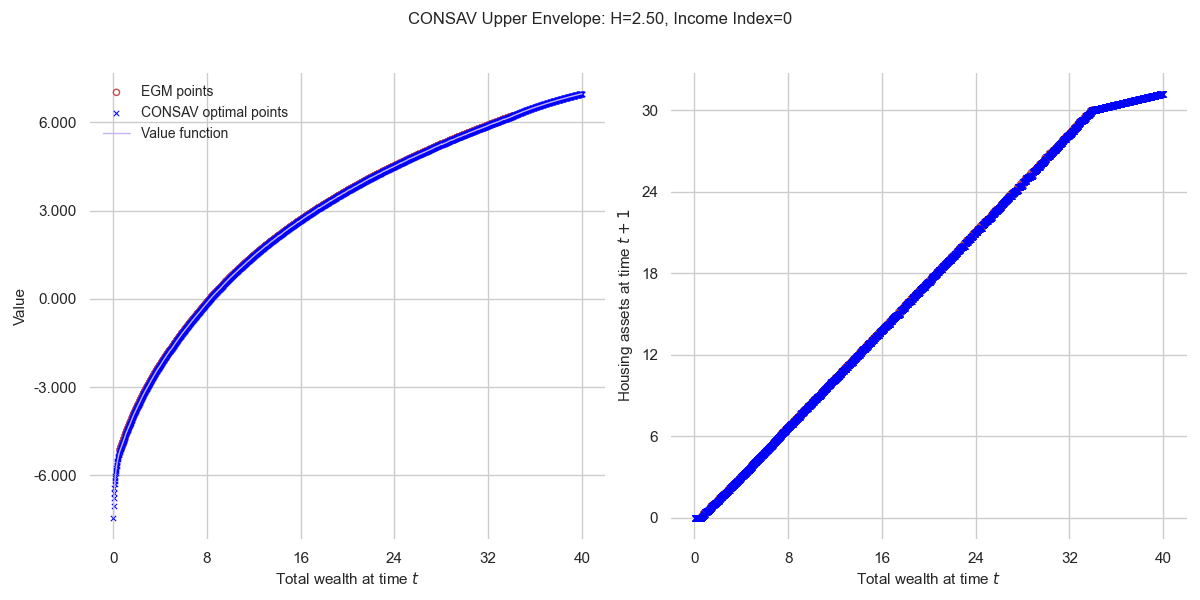
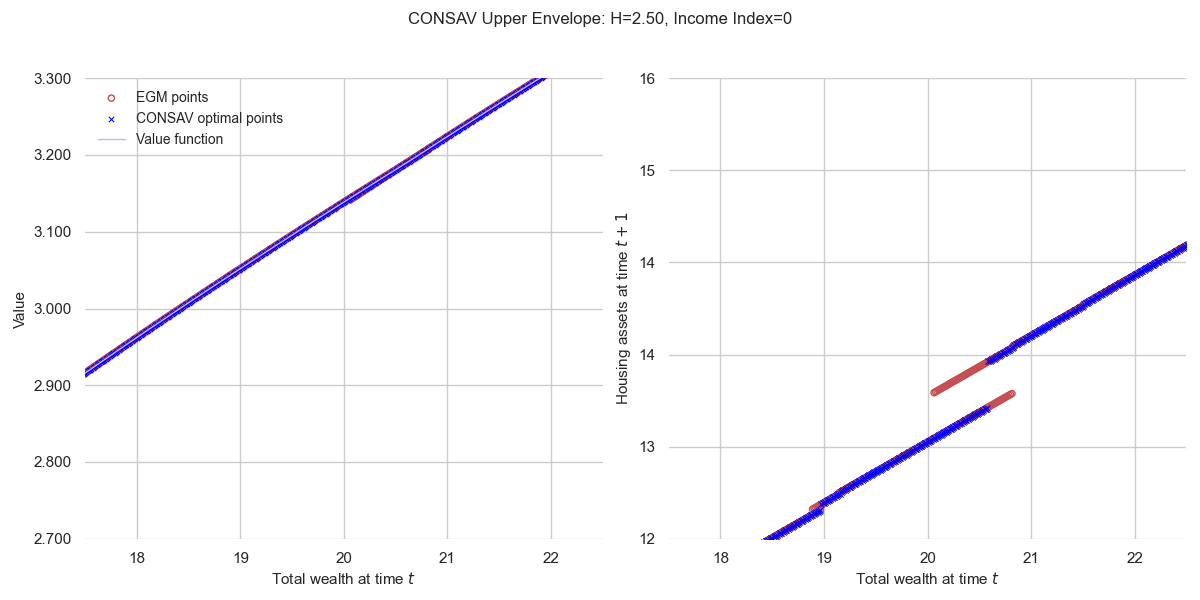
subgradient focs working hr ex

diff --git a/src/dc_smm/models/housing_renting/horses_common.py b/src/dc_smm/models/housing_renting/horses_common.py
@@ -296,103 +296,140 @@ def fast_vectorized_interpolation(values_grid, policies_grid, wealth_grid, valid
     return output, valid_count 
 
 
-def egm_preprocess(egrid, vf, c, a, beta, u_func, vf_next, Pi=None, i_z=None, i_h_prime=None, n_con=10, h_nxt=None):
+@njit
+def _egm_preprocess_core(e_old, vf_old, c_old, a_old,
+                         vf_next,              # 1-D, same length as old grids
+                         beta, u_func,         # u_func must be @njit-able
+                         m_bar,                # jump threshold
+                         n_con,                # # constraint nodes
+                         c_max, h_nxt):               # upper end of [c*, c_max]
     """
-    Preprocess endogenous grid and associated values following the approach in fella.py.
-    
-    This function:
-    1. Adds constraint points at the borrowing constraint with small consumption values
-    2. Concatenates them with the main EGM solution
-    3. Ensures uniqueness in the grid
-    
-    Parameters
-    ----------
-    egrid : ndarray
-        Endogenous grid (cash-on-hand)
-    vf : ndarray
-        Value function values
-    c : ndarray
-        Consumption policy values
-    a : ndarray
-        Asset policy values
-    beta : float
-        Discount factor
-    u_func : callable
-        Utility function that takes consumption and housing as arguments
-    vf_next : ndarray or float
-        Value function for next period or continuation value at constraint
-    Pi : ndarray, optional
-        Transition matrix for income shocks, for computing expectations
-    i_z : int, optional
-        Current income state index
-    i_h_prime : int, optional
-        Housing choice state index
-    n_con : int, optional
-        Number of constraint points to add, default 10
-    h_nxt : float, optional
-        Housing value for current iteration
-    
-    Returns
-    -------
-    tuple
-        (egrid_cleaned, vf_cleaned, c_cleaned, a_cleaned)
+    Returns new (e,vf,c,a) with
+
+        • n_con borrowing-constraint points, plus
+        • n_con points on every 'big' jump in a (|Δa| > m_bar),
+
+    all prepended in one shot.  No np.concatenate used.
     """
-    # Find minimum consumption in current solution
-    min_c_val = np.min(c) 
-    c_array = np.linspace(1e-100, min_c_val, n_con)
-    e_array = c_array  # For constraint points, c = m (no savings)
-    
-    # Generate utility values for constraint points
-    # Simple approach: just calculate utility directly for constraint points
-    # We're using the constraint points at the borrowing limit
-    #vf_array = np.zeros(n_con)
-    #for i in range(n_con):
-        # Use the provided housing value (could come from the outer loop in horses_c.py)
-        # Default to 0.0 only if no h_nxt is provided
-    h_val = 0.0 if h_nxt is None else h_nxt
-    
-    vf_array = u_func(**{"c": c_array, "H_nxt": h_val}) + beta * vf_next[0]
-    
-    # Asset policy at constraint is minimum asset value
-    b_array = np.zeros(n_con)
-    b_array.fill(a[0])  # Using first value of asset grid as borrowing constraint
 
-    # Pre-allocate once and write by slice → ~2× faster than four separate
-    # np.concatenate calls and avoids the temporary tuple objects.
-    n_old = egrid.size
-    n_new = n_con + n_old
+    # ---- 0.   basic sizes --------------------------------------------------
+    n_old   = e_old.size
+    base  = a_old[1:] - a_old[:-1]
+    diff  = e_old[1:] - e_old[:-1]
 
-    egrid_concat = np.empty(n_new, dtype=egrid.dtype)
-    egrid_concat[:n_con] = e_array
-    egrid_concat[n_con:] = egrid
+    # relative gap |Δa| / |a_{t}|   (robust to a_{t}=0)
+    rel_gap = np.empty_like(diff)
+    for i in range(diff.size):
+        b = base[i]
+        rel_gap[i] = np.abs(diff[i] / b) if b != 0.0 else np.inf
+    jumps  = rel_gap > 2          # m_bar is now a relative threshold
+    j_idx  = np.where(jumps)[0]
+    j_idx   = np.where(jumps)[0]          # jump i  ⇒  segment between i and i+1
+    n_jump  = j_idx.size
+    n_add   = n_con + n_jump * n_con      # total new nodes
+    n_total = n_old + n_add
 
-    vf_concat = np.empty(n_new, dtype=vf.dtype)
-    vf_concat[:n_con] = vf_array
-    vf_concat[n_con:] = vf
+    #print(j_idx)
+    print(beta)
+    # ---- 1.   allocate output containers ----------------------------------
+    e_new  = np.empty(n_total, dtype=e_old.dtype)
+    vf_new = np.empty(n_total, dtype=vf_old.dtype)
+    c_new  = np.empty(n_total, dtype=c_old.dtype)
+    a_new  = np.empty(n_total, dtype=a_old.dtype)
 
-    c_concat = np.empty(n_new, dtype=c.dtype)
-    c_concat[:n_con] = c_array
-    c_concat[n_con:] = c
+    p = 0   # write pointer into the new arrays
+    # -----------------------------------------------------------------------
+    # 2.  Borrowing-constraint segment  (always first)
+    # -----------------------------------------------------------------------
+    min_c  = np.min(c_old)
+    c_con = np.linspace(1e-100, min_c, n_con).astype(c_old.dtype)
+    e_con  = c_con                        # m = c at the constraint
+    vf_con = u_func(c_con, h_nxt) + beta * vf_next[0]
+    a_con  = np.empty_like(c_con)
+    a_con.fill(a_old[0])                  # borrowing limit
 
-    a_concat = np.empty(n_new, dtype=a.dtype)
-    a_concat[:n_con] = b_array
-    a_concat[n_con:] = a
+    e_new[p:p+n_con]  = e_con
+    vf_new[p:p+n_con] = vf_con
+    c_new[p:p+n_con]  = c_con
+    a_new[p:p+n_con]  = a_con
+    p += n_con
 
-    # Ensure uniqueness in grid
-    uniqueIds = uniqueEG(egrid_concat, vf_concat)
-    egrid_unique = egrid_concat[uniqueIds]
-    vf_unique = vf_concat[uniqueIds]
-    c_unique = c_concat[uniqueIds]
-    a_unique = a_concat[uniqueIds]
-    
-    # Sort by grid values to ensure monotonicity
-    #sort_indices = np.argsort(egrid_unique)
-    #egrid_unique = egrid_unique[sort_indices]
-    #vf_unique = vf_unique[sort_indices]
-    #c_unique = c_unique[sort_indices] 
-    #a_unique = a_unique[sort_indices]
-    
-    return egrid_unique, vf_unique, c_unique, a_unique
+    # -----------------------------------------------------------------------
+    # 3.  Jump segments
+    # -----------------------------------------------------------------------
+    for k in j_idx:                       # jump between k and k+1
+        a_star = a_old[k]
+        c_star = c_old[k]
+        e_star = e_old[k]
+
+        c_seg = np.linspace(c_star, c_star+1, n_con).astype(c_old.dtype)
+        m_seg = a_star + c_seg
+
+        vf_seg = u_func(c_seg, h_nxt) + beta * vf_next[k]
+
+        e_new[p:p+n_con]  = m_seg
+        vf_new[p:p+n_con] = vf_seg
+        c_new[p:p+n_con]  = c_seg
+        a_new[p:p+n_con]  = a_star
+        p += n_con
+
+    # -----------------------------------------------------------------------
+    # 4.  Copy the original solution after all extras
+    # -----------------------------------------------------------------------
+    e_new[n_add:]  = e_old
+    vf_new[n_add:] = vf_old
+    c_new[n_add:]  = c_old
+    a_new[n_add:]  = a_old
+
+    return e_new, vf_new, c_new, a_new
+
+def egm_preprocess(egrid, vf, c, a,
+                   beta, u_func, vf_next,
+                   m_bar,
+                   n_con=10,
+                   c_max=None,
+                   h_nxt=None,
+                   **kwargs):
+    """
+    Wrapper that
+
+      • calls the @njit core above,
+      • removes duplicates with uniqueEG,
+      • returns cleaned arrays (same order as before).
+
+    Any extra kwargs are ignored so you can keep the
+    original signature (Pi, i_z, i_h_prime, h_nxt, …).
+    """
+
+    # choose a default c_max if the caller doesn’t specify one
+    if c_max is None:
+        c_max = 1.05 * np.max(c)          # 5 % above current max consumption
+
+
+    #  (If you still need monotone sorting, re-enable the block below)
+    #sort_idx = np.argsort(egrid)
+    #egrid, vf,vf_next, c, a = (arr[sort_idx] for arr in (egrid, vf, vf_next,c, a))
+
+
+    # ---- run the fast core -------------------------------------------------
+    e_cat, vf_cat, c_cat, a_cat = _egm_preprocess_core(
+        egrid, vf, c, a,
+        vf_next, beta, u_func,
+        m_bar, n_con, c_max, h_nxt)
+
+    # ---- uniqueness & (optional) sorting -----------------------------------
+    unique_ids = uniqueEG(e_cat, vf_cat)
+
+    e_out  = e_cat[unique_ids]
+    vf_out = vf_cat[unique_ids]
+    c_out  = c_cat[unique_ids]
+    a_out  = a_cat[unique_ids]
+
+    #  (If you still need monotone sorting, re-enable the block below)
+    # sort_idx = np.argsort(e_out)
+    # e_out, vf_out, c_out, a_out = (arr[sort_idx] for arr in (e_out, vf_out, c_out, a_out))
+
+    return e_out, vf_out, c_out, a_out
 
 
 def build_njit_utility(

diff --git a/src/dc_smm/models/housing_renting/horses_c.py b/src/dc_smm/models/housing_renting/horses_c.py
@@ -84,6 +84,7 @@ def _solve_egm_loop(vlu_cntn, lambda_cntn, model):
     a_nxt_grid = model.num.state_space.cntn.grids.a_nxt
     H_nxt_grid = model.num.state_space.cntn.grids.H_nxt
     w_grid = model.num.state_space.dcsn.grids.w
+    c_max = model.settings_dict["c_max"]
     
     # Get functions and parameters
     compiled_funcs = model.num.functions
@@ -197,9 +198,9 @@ def _solve_egm_loop(vlu_cntn, lambda_cntn, model):
             if ue_method != "CONSAV":
                 m_egm_unique, vlu_v_egm_unique, c_egm_unique, a_nxt_grid_unique = (
                     egm_preprocess(
-                        m_egm, q_egm, c_egm, a_nxt_grid, beta, 
-                        compiled_funcs.u_func, vlu_e, n_con=n_con,
-                        h_nxt=H_nxt_grid[i_h]*thorn
+                        m_egm, q_egm, c_egm, a_nxt_grid, delta*beta, 
+                        utility_func, vlu_e, m_bar = m_bar, n_con=n_con,
+                        c_max=c_max, h_nxt=H_val
                     )
                 )
                 #print("not CONSAV")

diff --git a/examples/housing_renting/solve_single_model.py b/examples/housing_renting/solve_single_model.py
@@ -268,8 +268,8 @@ def main(argv=None):
     BOUNDS = {
         # example:
         # "cons_owner" : (0, 20, 0, 15),
-         "egm_value"  : (18, 22, 2.8, 3.2),
-         "egm_assets" : (18, 22, 12, 16)
+         "egm_value"  : (20, 21, 3.1, 3.25),
+         "egm_assets" : (20, 21, 13, 14.5)
     }
 
     # Main policy & EGM plots
@@ -282,7 +282,7 @@ if __name__ == "__main__":
                    # run it
     main(["--periods", "1", "--ue-method", "CONSAV", "--plot"])
     main(["--periods", "1", "--ue-method", "FUES", "--plot"])
-    main(["--periods", "1", "--ue-method", "DCEGM", "--plot"])
+    #Qmain(["--periods", "1", "--ue-method", "DCEGM", "--plot"])
 
     print("Done.")
     
